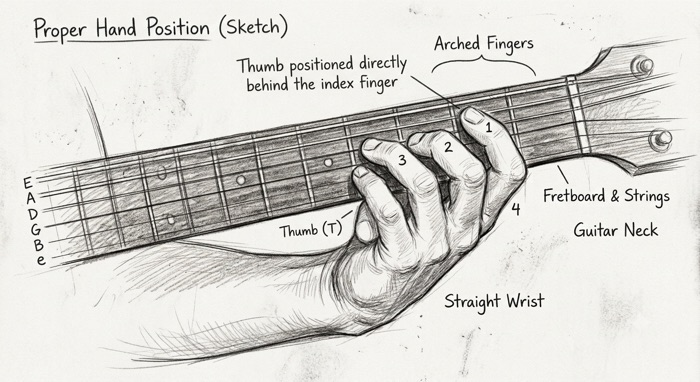
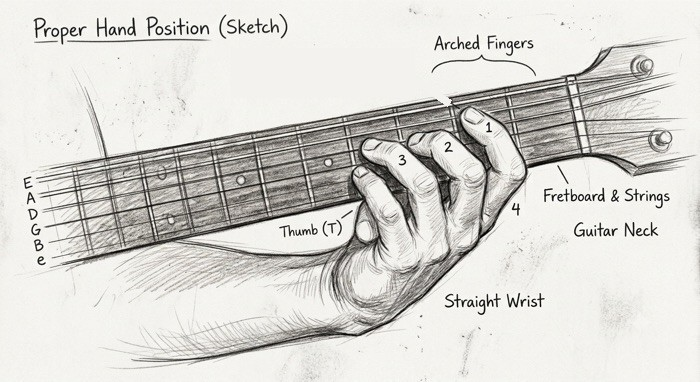
Jonathan's calls: Module 9 Challenge 2 keeps its typed box, Set 1's re-tests shown once, a p-i-m-a-m-i video in Module 8, the wrong caption off the Module 2 thumb sketch
Review: Fast
Claude-Session: https://claude.ai/code/session_0141groa1B5Nwi56Y4JaK49F

Changed region(s): [[0.33, 0.144, 0.6, 0.2592], [0.63, 0.2592, 0.66, 0.288], [0.6, 0.2304, 0.63, 0.2592]]

diff --git a/module-9.js b/module-9.js
@@ -31,11 +31,17 @@ SETS.push(
             title_es: 'Los seis repasos',
             steps: [
               {
+                // Hidden 2026-11-25 (Jonathan: "one pass"): Set 1 showed the six re-tests twice, here with a
+                // solid / shaky / gone question and again in the practice part with the checklist. The practice
+                // part's pass is the one kept. Every step of this station stays in the array (progress keys).
+                hidden: true,
                 label: 'How the re-tests work', label_es: 'Cómo funcionan los repasos',
                 text: '<ol><li>Play six things from before the break.</li><li>Mark each one solid, shaky, or gone.</li></ol>Not graded. Practice the "gone" ones first.',
                 text_es: '<ol><li>Toca seis cosas de antes del receso.</li><li>Marca cada una como sólida, insegura, o perdida.</li></ol>No se califica. Practica primero las "perdidas".'
               },
               {
+                // Hidden 2026-11-25 (one pass: the practice part's re-tests are the ones kept)
+                hidden: true,
                 label: 'Re-test 1: open chords', label_es: 'Repaso 1: acordes abiertos',
                 text: 'Re-test 1 — Open chords (Module 4): loop C → G → Am → F, two bars each at 60 BPM. Can you still land every change on beat 1 without breaking the strum?',
                 text_es: 'Repaso 1 — Acordes abiertos (Módulo 4): repite C → G → Am → F, dos compases cada uno a 60 BPM. ¿Todavía puedes caer en cada cambio justo en el tiempo 1 sin romper el rasgueo?',
@@ -45,6 +51,8 @@ SETS.push(
                 response: { type: 'mc', choices: ['Solid', 'Shaky', 'Gone'], choices_es: ['Sólida', 'Insegura', 'Perdida'] }
               },
               {
+                // Hidden 2026-11-25 (one pass: the practice part's re-tests are the ones kept)
+                hidden: true,
                 label: 'Re-test 2: strumming', label_es: 'Repaso 2: rasgueo',
                 text: 'Re-test 2 — Strumming (Module 6): D-DU-UDU over a G → C change at 70 BPM. Does the pattern keep running while the chord moves, or does it break at the change?',
                 text_es: 'Repaso 2 — Rasgueo (Módulo 6): D-DU-UDU sobre un cambio de G → C a 70 BPM. ¿El patrón sigue corriendo mientras cambia el acorde, o se rompe en el cambio?',
@@ -54,6 +62,8 @@ SETS.push(
                 response: { type: 'mc', choices: ['Solid', 'Shaky', 'Gone'], choices_es: ['Sólida', 'Insegura', 'Perdida'] }
               },
               {
+                // Hidden 2026-11-25 (one pass: the practice part's re-tests are the ones kept)
+                hidden: true,
                 label: 'Re-test 3: pentatonic Pattern 1', label_es: 'Repaso 3: Patrón pentatónico 1',
                 text: 'Re-test 3 — Pentatonic (Module 5): Pattern 1, up and back down, from memory. No diagram, every note on a 60 BPM click?',
                 text_es: 'Repaso 3 — Pentatónica (Módulo 5): Patrón 1, hacia arriba y de vuelta hacia abajo, de memoria. ¿Sin diagrama, cada nota en el clic a 60 BPM?',
@@ -63,6 +73,8 @@ SETS.push(
                 response: { type: 'mc', choices: ['Solid', 'Shaky', 'Gone'], choices_es: ['Sólida', 'Insegura', 'Perdida'] }
               },
               {
+                // Hidden 2026-11-25 (one pass: the practice part's re-tests are the ones kept)
+                hidden: true,
                 label: 'Re-test 4: power chords', label_es: 'Repaso 4: acordes de potencia',
                 text: 'Re-test 4 — Power chords (Module 3): move the two-finger shape E5 → G5 → A5, one change per bar, landing on the beat and naming each chord as you land it.',
                 text_es: 'Repaso 4 — Acordes de potencia (Módulo 3): mueve la forma de dos dedos E5 → G5 → A5, un cambio por compás, cayendo en el tiempo y nombrando cada acorde al caer en él.',
@@ -72,6 +84,8 @@ SETS.push(
                 response: { type: 'mc', choices: ['Solid', 'Shaky', 'Gone'], choices_es: ['Sólida', 'Insegura', 'Perdida'] }
               },
               {
+                // Hidden 2026-11-25 (one pass: the practice part's re-tests are the ones kept)
+                hidden: true,
                 label: 'Re-test 5: TAB at first sight', label_es: 'Repaso 5: TAB a primera vista',
                 text: 'Re-test 5 — TAB reading (Module 2):<ol><li>Open any Song Journey page and find a section you\'ve never played.</li><li>Read 4 bars at first sight (at first sight = playing it the very first time you see it, no practice) — right strings, right frets, left to right.</li></ol>',
                 text_es: 'Repaso 5 — Lectura de TAB (Módulo 2):<ol><li>Abre cualquier página de Recorrido de la canción y busca una sección que nunca hayas tocado.</li><li>Lee 4 compases a primera vista (a primera vista = tocarlo la primera vez que lo ves, sin práctica) — cuerdas correctas, trastes correctos, de izquierda a derecha.</li></ol>',
@@ -81,6 +95,8 @@ SETS.push(
                 response: { type: 'mc', choices: ['Solid', 'Shaky', 'Gone'], choices_es: ['Sólida', 'Insegura', 'Perdida'] }
               },
               {
+                // Hidden 2026-11-25 (one pass: the practice part's re-tests are the ones kept)
+                hidden: true,
                 label: 'Re-test 6: fingerpicking', label_es: 'Repaso 6: fingerpicking',
                 text: 'Re-test 6 — Fingerpicking (Module 8):<ol><li>Fingerpick p-i-m-a over Am, thumb on the A string, without stopping.</li><li>Then change Em → Am and let the thumb switch bass strings while i-m-a stay in place.</li></ol>',
                 text_es: 'Repaso 6 — Fingerpicking (Módulo 8):<ol><li>Toca con fingerpicking p-i-m-a sobre Am, pulgar en la cuerda La, sin detenerte.</li><li>Luego cambia Em → Am y deja que el pulgar cambie de cuerda grave mientras i-m-a se quedan quietos.</li></ol>',
@@ -97,6 +113,8 @@ SETS.push(
             title_es: 'Punto de control',
             steps: [
               {
+                // Hidden 2026-11-25 (one pass: the practice part's re-tests are the ones kept)
+                hidden: true,
                 label: 'Pick your weakest re-test', label_es: 'Elige tu repaso más débil',
                 text: 'Look at your six answers. Which ONE re-test most needs more practice before you go deeper into Module 9? That\'s the first thing you practice next session — the original module\'s sets are all still there when you need them.',
                 text_es: 'Mira tus seis respuestas. ¿Cuál ÚNICO repaso necesita más práctica antes de profundizar en el Módulo 9? Eso es lo primero que practicas la próxima sesión — las unidades del módulo original siguen ahí cuando las necesites.',
@@ -1024,7 +1042,7 @@ SETS.push(
                 levelUp: 'Write a second 4-bar riff of your choice from memory, or write the riff transposed to a different starting fret.',
                 levelUp_es: 'Escribe un segundo riff de 4 compases de tu elección de memoria, o escribe el riff transportado a un traste de partida distinto.',
                 skills: [2, 3],
-                response: { type: 'short', prompt: 'Write the riff as one-string TAB (string, then frets in order):',
+                response: { type: 'short', keepTyped: true, prompt: 'Write the riff as one-string TAB (string, then frets in order):',
                   prompt_es: 'Escribe el riff como TAB de una cuerda (cuerda, luego trastes en orden):',
                   placeholder: 'e.g. D|—0—2—3—2—0— (string, then frets in order)', placeholder_es: 'p. ej. D|—0—2—3—2—0— (cuerda, y luego los trastes en orden)' }
               }

diff --git a/app/lesson.js b/app/lesson.js
@@ -298,7 +298,8 @@ function buildLesson(w){
       const labelHtml = `<div class="step-resp-label"><svg viewBox="0 0 24 24" fill="none" stroke="currentColor" stroke-width="1.8" stroke-linecap="round" stroke-linejoin="round" aria-hidden="true"><path d="M17 3a2.85 2.85 0 1 1 4 4L7.5 20.5 2 22l1.5-5.5z"/></svg> ${t('step.yourResponse')}</div>`;
       if(s.response.type === 'short'){
         // Switched off (TYPED_RESPONSES_ENABLED, below): no box, so nothing is ever written for this step.
-        if(!TYPED_RESPONSES_ENABLED) return '';
+        // `keepTyped` is the one kind of step that keeps its box: writing IS the task there.
+        if(!TYPED_RESPONSES_ENABLED && !s.response.keepTyped) return '';
         const ph = s.response.placeholder ? tf(s.response,'placeholder') : t('step.answerPlaceholder');
         const prAttrs = isPR ? ` onblur="onResponsePRBlur('${key}')"` : '';
         return `<div class="step-resp">${labelHtml}${promptHtml}<textarea class="step-resp-input" rows="2" placeholder="${escAttr(ph)}" oninput="onResponseChange('${key}', this.value${isPR?', true':''})"${prAttrs}>${escHtml(stored)}</textarea></div>`;
@@ -1351,8 +1352,11 @@ const DAILY5_ENABLED = false;
    students already typed, which the console's Responses view still shows
    (setShortResponses() in teacher-manage.js tags each slot "(retired)" while
    this is off). The tick never depended on the box: "Mark done" works the same.
-   Keyed and unkeyed multiple choice are not part of this switch. checks.mjs
-   1ff pins it off and finds no step text that still asks the student to type. */
+   Keyed and unkeyed multiple choice are not part of this switch. A step whose
+   response says `keepTyped: true` keeps its box (Jonathan, 2026-11-25, "keep":
+   Module 9 Set 3's Challenge 2, where writing the TAB IS the task; Challenge 4
+   reads it back a day later). checks.mjs 1ff pins the switch off, pins which
+   steps keep a box, and finds no other step text that asks the student to type. */
 const TYPED_RESPONSES_ENABLED = false;
 /* Daily 5 — today's 5-minute warm-up for the current module. Same drill for
    everyone on the same date (rotated by day of year). Read-only. */

diff --git a/module-8.js b/module-8.js
@@ -333,8 +333,8 @@ SETS.push(
             steps: [
           {
             label: 'Watch: count the 6-note cycle', label_es: 'Mira: cuenta el ciclo de 6 notas',
-            text: 'Watch: <a href="https://youtu.be/K2Z3RZc5t-A?t=54" target="_blank">Basic Fingerstyle – Travis Finger Picking (FO-108) – JustinGuitar</a> (revisit 0:54–4:00). This time, watch one full pattern cycle and count the notes out loud with him.',
-            text_es: 'Mira: <a href="https://youtu.be/K2Z3RZc5t-A?t=54" target="_blank">Basic Fingerstyle – Travis Finger Picking (FO-108) – JustinGuitar</a> (revisita 0:54–4:00). Esta vez, mira un ciclo completo del patrón y cuenta las notas en voz alta con él.',
+            text: 'Watch: <a href="https://www.youtube.com/watch?v=99yx4Mn1NN0" target="_blank">P I M A M I Lesson – Southwestern University Guitar Tutorials</a>. Watch one full pattern cycle and count the notes out loud with the teacher.',
+            text_es: 'Mira: <a href="https://www.youtube.com/watch?v=99yx4Mn1NN0" target="_blank">P I M A M I Lesson – Southwestern University Guitar Tutorials</a>. Mira un ciclo completo del patrón y cuenta las notas en voz alta con el maestro.',
             hint: 'The "p-i-m-a-m-i" cycle (6 notes per bar) is one of the most-used patterns in folk and pop. It creates a flowing, arpeggiated feel under a chord.',
             hint_es: 'El ciclo "p-i-m-a-m-i" (6 notas por compás) es uno de los patrones más usados en folk y pop. Crea una sensación fluida y arpegiada debajo de un acorde.',
             skills: [1, 2],

diff --git a/teacher-manage.js b/teacher-manage.js
@@ -393,7 +393,7 @@ function setShortResponses(w){
          slots read as live and Jonathan can't tell "nobody has done this
          yet" from "this prompt left the course". */
       const live=new Set(visibleSteps(sec,w.moduleNum).map(p=>p.idx));
-      (sec.steps||[]).forEach((st,i)=>pushStep(st,`${stationId}-sec${gi}`,i,typedOff||secRetired||st.hidden===true||!live.has(i)));
+      (sec.steps||[]).forEach((st,i)=>pushStep(st,`${stationId}-sec${gi}`,i,(typedOff&&!(st.response&&st.response.keepTyped))||secRetired||st.hidden===true||!live.has(i)));
     });
     else if(stn.steps) stn.steps.forEach((st,i)=>pushStep(st,stationId,i,typedOff||st.hidden===true));
   });

diff --git a/CHANGELOG.md b/CHANGELOG.md
@@ -6,6 +6,16 @@ For the full session-by-session history (and the reasoning behind each change),
 see `WORKFLOW.md` and the git commit log.
 
 
+## 2026-11-25 — Module 8 and 9 fixes
+
+- **Module 9, Set 3: Challenge 2 has its typing box back.** Writing the TAB is the task there, and Challenge 4 reads it
+  back a day later.
+- **Module 9, Set 1 shows the six re-tests once**, not twice.
+- **Module 8, "Count the 6-note cycle" has a new video** that teaches the p-i-m-a-m-i pattern.
+- **Module 2: the hand-position sketch no longer says the thumb sits behind the index finger.** The step's words are
+  right: keep it behind the neck, about behind the middle finger.
+
+
 ## 2026-11-25 — The Listening Coach says so when it is not sure what it heard
 
 - **On a melody drill, the Listening Coach has to hear the right notes.** Playing on the beat all the way through is not
